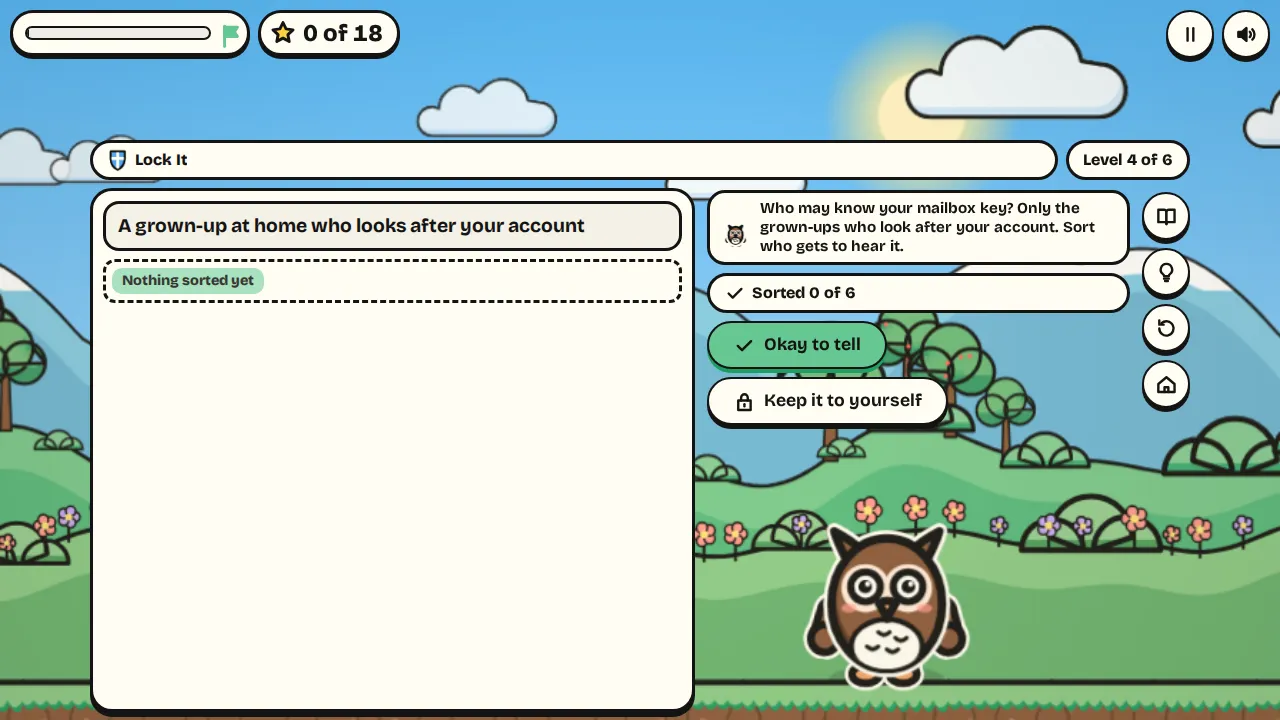
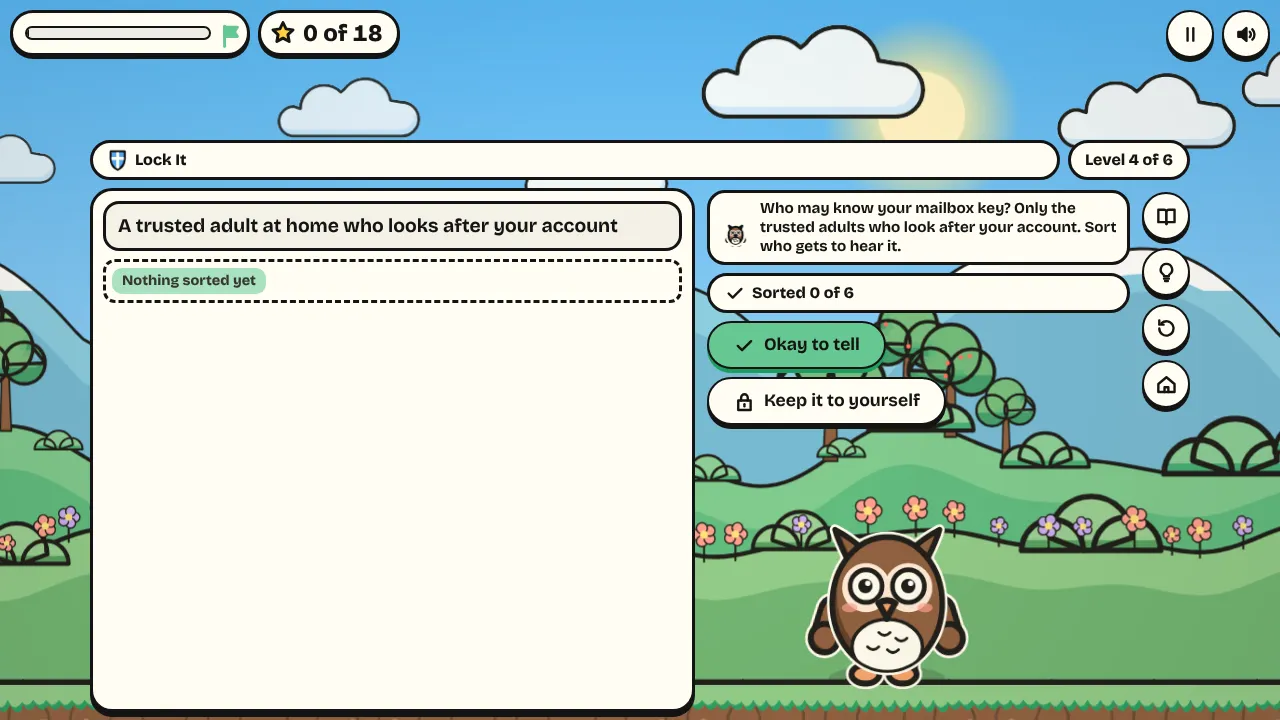
Escape's Post Office label is whole; Lock It's trusted-adult card recaptured; 4.2 question
- Escape the Post Office: place names ride above the road buttons (nodes take
  no pointer events, so taps still reach the buttons); 'Post Offic' is now
  'Post Office' in the game and in the Sorting Gate pictures.
- Lock It's 'Okay to tell' picture (2.1, CS Quest 4.2) recaptured: it now
  reads 'A trusted adult at home...' as the game does, not 'grown-up'.
- Explorer 4.2's hard-to-parse question reads 'You do not reply to a trick
  message. Which two tricksters does that stop, and why?'

Claude-Session: https://claude.ai/code/session_01KYpNxumPhmWGwbVSmRUEXt

diff --git a/public/js/course-zoom-data.js b/public/js/course-zoom-data.js
@@ -1,3 +1,3 @@
 // Generated by scripts/cyber-zoom-data.mjs from scripts/cyber-shots-rects.json: do not edit.
 // { picture key: the game's body text size, px of the 1280-wide capture }; word boxes: /img/zoom/<key>.json
-export default {"csq/escape-the-post-office/door-1b-five":46.5,"csq/escape-the-post-office/door-1b-new":43.6,"csq/escape-the-post-office/door-1b-new-n2":47.6,"csq/escape-the-post-office/door-1b-two":48.8,"csq/escape-the-post-office/door-2-five":46.5,"csq/escape-the-post-office/door-2-new":45.5,"csq/escape-the-post-office/door-2-new-n2":47.6,"csq/escape-the-post-office/door-2-two":48.8,"csq/escape-the-post-office/gate-1b":48.8,"csq/escape-the-post-office/gate-2":48.8,"csq/escape-the-post-office/inbox-1b":48.8,"csq/escape-the-post-office/inbox-1b-2":48.8,"csq/escape-the-post-office/inbox-1b-wrong":45.5,"csq/escape-the-post-office/inbox-2":48.8,"csq/escape-the-post-office/inbox-2-5":47.6,"csq/escape-the-post-office/layers-1b":43.6,"csq/escape-the-post-office/layers-1b-2":48.8,"csq/escape-the-post-office/layers-1b-3":43.6,"csq/escape-the-post-office/layers-1b-4":48.8,"csq/escape-the-post-office/layers-2":47.6,"csq/escape-the-post-office/layers-2-2":48.8,"csq/escape-the-post-office/layers-2-2-n2":43.6,"csq/escape-the-post-office/layers-2-3":43.6,"csq/escape-the-post-office/layers-2-5":46.5,"csq/escape-the-post-office/layers-2-6":48.8,"csq/escape-the-post-office/moves-1b":47.6,"csq/escape-the-post-office/moves-1b-four":46.5,"csq/escape-the-post-office/moves-1b-two":46.5,"csq/escape-the-post-office/moves-2":47.6,"csq/escape-the-post-office/moves-2-done":48.8,"csq/escape-the-post-office/moves-2-five":48.8,"csq/escape-the-post-office/moves-2-one":48.8,"csq/escape-the-post-office/moves-2-one-n2":45.5,"csq/escape-the-post-office/moves-2-three":48.8,"csq/escape-the-post-office/note-1b":48.8,"csq/escape-the-post-office/note-1b-n2":43.6,"csq/escape-the-post-office/note-1b-open":48.8,"csq/escape-the-post-office/note-2":48.8,"csq/escape-the-post-office/pim-1b":48.8,"csq/escape-the-post-office/pim-1b-pick":48.8,"csq/escape-the-post-office/pim-2":43.6,"csq/escape-the-post-office/pim-2-pick":43.6,"csq/packet-post/ciphers-1b-send":16,"csq/packet-post/ciphers-1b-unknown":16,"csq/packet-post/ciphers-2-crack":16,"csq/packet-post/ciphers-2-lockbox":48.8,"csq/packet-post/home":18.7,"csq/packet-post/locks-1b-backup-n1":58.9,"csq/packet-post/locks-1b-habits":16,"csq/packet-post/locks-1b-protect":16,"csq/packet-post/locks-1b-sort-n1":43.9,"csq/packet-post/locks-2-backup":16,"csq/packet-post/locks-2-router":16,"csq/packet-post/packets-1b-center":16,"csq/packet-post/packets-1b-learn-n1":51.2,"csq/packet-post/protocols-1b-key":16,"csq/packet-post/protocols-1b-sealed":16,"csq/packet-post/protocols-2-design":48.8,"csq/packet-post/routes-1b-journey":16,"csq/packet-post/routes-2-sealed":16,"csq/packet-post/tricks-1b-card":16,"csq/packet-post/tricks-1b-card-n1":48.8,"csq/packet-post/tricks-1b-clues":16,"csq/packet-post/tricks-1b-clues-n1":48.8,"csq/packet-post/tricks-1b-coins-n1":48.8,"csq/packet-post/tricks-1b-key":16,"csq/packet-post/tricks-1b-key-n1":48.8,"csq/packet-post/tricks-1b-key-n2":48.8,"csq/packet-post/tricks-1b-stranger-n1":48.8,"csq/packet-post/tricks-2-bank":16,"csq/packet-post/tricks-2-parcel":48.8,"csq/trick-inbox/ask-first-1b-af-1-all":49.7,"csq/trick-inbox/ask-first-1b-af-2-new":49.7,"csq/trick-inbox/ask-first-1b-af-3-all":49.7,"csq/trick-inbox/ask-first-1b-af-4-all":49.7,"csq/trick-inbox/ask-first-1b-af-6-all":49.7,"csq/trick-inbox/boss-1b-c1":45.4,"csq/trick-inbox/chat-1b-ch-1-all":49.7,"csq/trick-inbox/chat-1b-ch-1-debrief":47.6,"csq/trick-inbox/chat-1b-ch-2-debrief":46.5,"csq/trick-inbox/chat-1b-ch-2-new":49.7,"csq/trick-inbox/chat-1b-ch-3-all":49.7,"csq/trick-inbox/chat-1b-ch-3-debrief":48.8,"csq/trick-inbox/chat-1b-ch-4-all":49.7,"csq/trick-inbox/chat-1b-ch-4-decide":53.6,"csq/trick-inbox/chat-1b-ch-6-all":49.7,"csq/trick-inbox/chat-2-ch-1-debrief":47.6,"csq/trick-inbox/chat-2-ch-3-all":49.7,"csq/trick-inbox/chat-2-ch-3-debrief":48.8,"csq/trick-inbox/chat-2-ch-4-all":49.7,"csq/trick-inbox/chat-2-ch-4-decide":53.6,"csq/trick-inbox/chat-2-ch-6-all":49.7,"csq/trick-inbox/chat-2-ch-7-all":49.7,"csq/trick-inbox/chat-2-ch-7-debrief":48.8,"csq/trick-inbox/keys-1b-kk-1-all":49.7,"csq/trick-inbox/keys-1b-kk-4-all":49.7,"csq/trick-inbox/letters-1b-lt-1-all":49.7,"csq/trick-inbox/letters-1b-lt-3-all":49.7,"csq/trick-inbox/letters-1b-lt-5-all":49.7,"csq/trick-inbox/letters-1b-lt-5-debrief":48.8,"csq/trick-inbox/letters-2-lt-7-all":49.7,"csq/trick-inbox/media-2-md-1-all":49.7,"csq/trick-inbox/media-2-md-1-debrief":46.5,"csq/trick-inbox/media-2-md-2-all":49.7,"csq/trick-inbox/media-2-md-3-all":49.7,"csq/trick-inbox/media-2-md-3-debrief":47.6,"csq/trick-inbox/media-2-md-4-new":49.7,"csq/trick-inbox/media-2-md-5-all":49.7,"csq/trick-inbox/mix-1b-mx-1-all":49.7,"csq/trick-inbox/mix-1b-mx-1-debrief":48.8,"csq/trick-inbox/mix-1b-mx-3-debrief":48.8,"csq/trick-inbox/mix-1b-mx-4-all":49.7,"csq/trick-inbox/mix-1b-mx-4-debrief":48.8,"csq/trick-inbox/mix-1b-mx-6-all":49.7,"csq/trick-inbox/mix-1b-mx-6-debrief":48.8,"csq/trick-inbox/mix-2-mx-3-debrief":48.8,"csq/trick-inbox/mix-2-mx-4-debrief":48.8,"csq/trick-inbox/mix-2-mx-6-debrief":48.8,"csq/trick-inbox/pressure-2-pr-1-all":49.7,"csq/trick-inbox/pressure-2-pr-1-debrief":48.8,"csq/trick-inbox/pressure-2-pr-2-all":49.7,"csq/trick-inbox/pressure-2-pr-3-all":49.7,"csq/trick-inbox/pressure-2-pr-3-debrief":48.8,"csq/trick-inbox/pressure-2-pr-4-all":49.7,"csq/trick-inbox/pressure-2-pr-6-all":49.7,"csq/trick-inbox/private-1b-pf-1-all":49.7,"csq/trick-inbox/private-1b-pf-3-all":49.7,"csq/trick-inbox/private-1b-pf-6-all":49.7,"csq/trick-inbox/rules-1b-rb-1-all":49.7,"csq/trick-inbox/rules-1b-rb-3-all":49.7,"csq/trick-inbox/rules-1b-rb-5-debrief":48.8,"csq/trick-inbox/senders-2-sd-1-all":49.7,"csq/trick-inbox/senders-2-sd-1-all-n2":49.7,"csq/trick-inbox/senders-2-sd-1-debrief-n1":47.6,"csq/trick-inbox/senders-2-sd-1-new":49.7,"csq/trick-inbox/senders-2-sd-3-all":49.7,"csq/would-you-rather/online-cloud-2":49.2,"csq/would-you-rather/online-comments-2":49.2,"csq/would-you-rather/online-credit-1b":30.2,"csq/would-you-rather/online-credit-1b-n1":49.2,"csq/would-you-rather/online-delete-1b":49.2,"csq/would-you-rather/online-delete-2":49.2,"csq/would-you-rather/online-download-1b":49.2,"csq/would-you-rather/online-drawing-1b":49.2,"csq/would-you-rather/online-location-1b":49.2,"csq/would-you-rather/online-name-1b":49.2,"csq/would-you-rather/online-name-2":49.2,"csq/would-you-rather/online-photo-1b":49.2,"csq/would-you-rather/online-photo-2":49.2};
+export default {"csq/escape-the-post-office/door-1b-five":46.5,"csq/escape-the-post-office/door-1b-new":43.6,"csq/escape-the-post-office/door-1b-new-n2":47.6,"csq/escape-the-post-office/door-1b-two":48.8,"csq/escape-the-post-office/door-2-five":46.5,"csq/escape-the-post-office/door-2-new":45.5,"csq/escape-the-post-office/door-2-new-n2":47.6,"csq/escape-the-post-office/door-2-two":48.8,"csq/escape-the-post-office/gate-1b":41.4,"csq/escape-the-post-office/gate-2":41.4,"csq/escape-the-post-office/inbox-1b":48.8,"csq/escape-the-post-office/inbox-1b-2":48.8,"csq/escape-the-post-office/inbox-1b-wrong":45.5,"csq/escape-the-post-office/inbox-2":48.8,"csq/escape-the-post-office/inbox-2-5":47.6,"csq/escape-the-post-office/layers-1b":43.6,"csq/escape-the-post-office/layers-1b-2":48.8,"csq/escape-the-post-office/layers-1b-3":43.6,"csq/escape-the-post-office/layers-1b-4":48.8,"csq/escape-the-post-office/layers-2":47.6,"csq/escape-the-post-office/layers-2-2":48.8,"csq/escape-the-post-office/layers-2-2-n2":43.6,"csq/escape-the-post-office/layers-2-3":43.6,"csq/escape-the-post-office/layers-2-5":46.5,"csq/escape-the-post-office/layers-2-6":48.8,"csq/escape-the-post-office/moves-1b":47.6,"csq/escape-the-post-office/moves-1b-four":46.5,"csq/escape-the-post-office/moves-1b-two":46.5,"csq/escape-the-post-office/moves-2":47.6,"csq/escape-the-post-office/moves-2-done":48.8,"csq/escape-the-post-office/moves-2-five":48.8,"csq/escape-the-post-office/moves-2-one":48.8,"csq/escape-the-post-office/moves-2-one-n2":45.5,"csq/escape-the-post-office/moves-2-three":48.8,"csq/escape-the-post-office/note-1b":48.8,"csq/escape-the-post-office/note-1b-n2":43.6,"csq/escape-the-post-office/note-1b-open":48.8,"csq/escape-the-post-office/note-2":48.8,"csq/escape-the-post-office/pim-1b":48.8,"csq/escape-the-post-office/pim-1b-pick":48.8,"csq/escape-the-post-office/pim-2":43.6,"csq/escape-the-post-office/pim-2-pick":43.6,"csq/packet-post/ciphers-1b-send":16,"csq/packet-post/ciphers-1b-unknown":16,"csq/packet-post/ciphers-2-crack":16,"csq/packet-post/ciphers-2-lockbox":48.8,"csq/packet-post/home":18.7,"csq/packet-post/locks-1b-backup-n1":58.9,"csq/packet-post/locks-1b-habits":16,"csq/packet-post/locks-1b-protect":16,"csq/packet-post/locks-1b-sort-n1":43.9,"csq/packet-post/locks-2-backup":16,"csq/packet-post/locks-2-router":16,"csq/packet-post/packets-1b-center":16,"csq/packet-post/packets-1b-learn-n1":51.2,"csq/packet-post/protocols-1b-key":16,"csq/packet-post/protocols-1b-sealed":16,"csq/packet-post/protocols-2-design":48.8,"csq/packet-post/routes-1b-journey":16,"csq/packet-post/routes-2-sealed":16,"csq/packet-post/tricks-1b-card":16,"csq/packet-post/tricks-1b-card-n1":48.8,"csq/packet-post/tricks-1b-clues":16,"csq/packet-post/tricks-1b-clues-n1":48.8,"csq/packet-post/tricks-1b-coins-n1":48.8,"csq/packet-post/tricks-1b-key":16,"csq/packet-post/tricks-1b-key-n1":48.8,"csq/packet-post/tricks-1b-key-n2":48.8,"csq/packet-post/tricks-1b-stranger-n1":48.8,"csq/packet-post/tricks-2-bank":16,"csq/packet-post/tricks-2-parcel":48.8,"csq/trick-inbox/ask-first-1b-af-1-all":49.7,"csq/trick-inbox/ask-first-1b-af-2-new":49.7,"csq/trick-inbox/ask-first-1b-af-3-all":49.7,"csq/trick-inbox/ask-first-1b-af-4-all":49.7,"csq/trick-inbox/ask-first-1b-af-6-all":49.7,"csq/trick-inbox/boss-1b-c1":45.4,"csq/trick-inbox/chat-1b-ch-1-all":49.7,"csq/trick-inbox/chat-1b-ch-1-debrief":47.6,"csq/trick-inbox/chat-1b-ch-2-debrief":46.5,"csq/trick-inbox/chat-1b-ch-2-new":49.7,"csq/trick-inbox/chat-1b-ch-3-all":49.7,"csq/trick-inbox/chat-1b-ch-3-debrief":48.8,"csq/trick-inbox/chat-1b-ch-4-all":49.7,"csq/trick-inbox/chat-1b-ch-4-decide":53.6,"csq/trick-inbox/chat-1b-ch-6-all":49.7,"csq/trick-inbox/chat-2-ch-1-debrief":47.6,"csq/trick-inbox/chat-2-ch-3-all":49.7,"csq/trick-inbox/chat-2-ch-3-debrief":48.8,"csq/trick-inbox/chat-2-ch-4-all":49.7,"csq/trick-inbox/chat-2-ch-4-decide":53.6,"csq/trick-inbox/chat-2-ch-6-all":49.7,"csq/trick-inbox/chat-2-ch-7-all":49.7,"csq/trick-inbox/chat-2-ch-7-debrief":48.8,"csq/trick-inbox/keys-1b-kk-1-all":49.7,"csq/trick-inbox/keys-1b-kk-4-all":49.7,"csq/trick-inbox/letters-1b-lt-1-all":49.7,"csq/trick-inbox/letters-1b-lt-3-all":49.7,"csq/trick-inbox/letters-1b-lt-5-all":49.7,"csq/trick-inbox/letters-1b-lt-5-debrief":48.8,"csq/trick-inbox/letters-2-lt-7-all":49.7,"csq/trick-inbox/media-2-md-1-all":49.7,"csq/trick-inbox/media-2-md-1-debrief":46.5,"csq/trick-inbox/media-2-md-2-all":49.7,"csq/trick-inbox/media-2-md-3-all":49.7,"csq/trick-inbox/media-2-md-3-debrief":47.6,"csq/trick-inbox/media-2-md-4-new":49.7,"csq/trick-inbox/media-2-md-5-all":49.7,"csq/trick-inbox/mix-1b-mx-1-all":49.7,"csq/trick-inbox/mix-1b-mx-1-debrief":48.8,"csq/trick-inbox/mix-1b-mx-3-debrief":48.8,"csq/trick-inbox/mix-1b-mx-4-all":49.7,"csq/trick-inbox/mix-1b-mx-4-debrief":48.8,"csq/trick-inbox/mix-1b-mx-6-all":49.7,"csq/trick-inbox/mix-1b-mx-6-debrief":48.8,"csq/trick-inbox/mix-2-mx-3-debrief":48.8,"csq/trick-inbox/mix-2-mx-4-debrief":48.8,"csq/trick-inbox/mix-2-mx-6-debrief":48.8,"csq/trick-inbox/pressure-2-pr-1-all":49.7,"csq/trick-inbox/pressure-2-pr-1-debrief":48.8,"csq/trick-inbox/pressure-2-pr-2-all":49.7,"csq/trick-inbox/pressure-2-pr-3-all":49.7,"csq/trick-inbox/pressure-2-pr-3-debrief":48.8,"csq/trick-inbox/pressure-2-pr-4-all":49.7,"csq/trick-inbox/pressure-2-pr-6-all":49.7,"csq/trick-inbox/private-1b-pf-1-all":49.7,"csq/trick-inbox/private-1b-pf-3-all":49.7,"csq/trick-inbox/private-1b-pf-6-all":49.7,"csq/trick-inbox/rules-1b-rb-1-all":49.7,"csq/trick-inbox/rules-1b-rb-3-all":49.7,"csq/trick-inbox/rules-1b-rb-5-debrief":48.8,"csq/trick-inbox/senders-2-sd-1-all":49.7,"csq/trick-inbox/senders-2-sd-1-all-n2":49.7,"csq/trick-inbox/senders-2-sd-1-debrief-n1":47.6,"csq/trick-inbox/senders-2-sd-1-new":49.7,"csq/trick-inbox/senders-2-sd-3-all":49.7,"csq/would-you-rather/online-cloud-2":49.2,"csq/would-you-rather/online-comments-2":49.2,"csq/would-you-rather/online-credit-1b":30.2,"csq/would-you-rather/online-credit-1b-n1":49.2,"csq/would-you-rather/online-delete-1b":49.2,"csq/would-you-rather/online-delete-2":49.2,"csq/would-you-rather/online-download-1b":49.2,"csq/would-you-rather/online-drawing-1b":49.2,"csq/would-you-rather/online-location-1b":49.2,"csq/would-you-rather/online-name-1b":49.2,"csq/would-you-rather/online-name-2":49.2,"csq/would-you-rather/online-photo-1b":49.2,"csq/would-you-rather/online-photo-2":49.2};

diff --git a/seed-games/escape-the-post-office.html b/seed-games/escape-the-post-office.html
@@ -45,6 +45,9 @@
   .ep-node .ep-ico { position: absolute; left: -23px; top: -23px; width: 46px; height: 46px; border-radius: 50%; background: var(--ok-card); border: 3px solid var(--ok-edge); display: grid; place-items: center; font-size: 22px; }
   .ep-node.ep-here .ep-ico { outline: 4px solid var(--ep-lit); outline-offset: 2px; }
   .ep-node small { position: absolute; top: 25px; left: 50%; transform: translateX(-50%); font-weight: 800; font-size: .72em; background: var(--ok-card); border-radius: 8px; padding: 1px 6px; white-space: nowrap; }
+  /* a place name rides above the road buttons (taps still reach them: nodes take no pointer events), so a road button next to
+     a long name never hides its last letters ("Post Offic") */
+  .ep-board .ep-node { z-index: 3; }
   .ep-link { position: absolute; width: 48px; height: 48px; margin: -24px 0 0 -24px; border-radius: 50%; border: 3px solid var(--ok-edge); background: var(--ok-card); color: var(--ok-text);
     display: grid; place-items: center; padding: 0; cursor: pointer; font: inherit; font-weight: 800; box-shadow: 0 3px 0 var(--ok-edge); z-index: 2; }
   .ep-link.ep-ok { background: var(--ep-go); color: var(--ep-ink); }

diff --git a/tests/unit/cyber-shots.test.js b/tests/unit/cyber-shots.test.js
@@ -104,7 +104,9 @@ test('every spec state is in the manifest with the same alt, its WebP exists, an
 const Z = await import('../../public/js/course-zoom.js');
 const ZOOM_DATA = (await import('../../public/js/course-zoom-data.js')).default;
 const FRAME_390 = 326;
-const SHORT = { WIDE: 4, CAPPED: 7 };
+// 2026-11-07: +1 each: the Sorting Gate captures now show the whole "Post Office" label (it was hidden under a road
+// button), a longer line that the gate steps' boxes touch, and the padlock-road mission of 1b 1.2.
+const SHORT = { WIDE: 5, CAPPED: 8 };
 test('zoom-to-cue at 390: no cut line, every touched line whole, 11 px wherever the layout allows', () => {
   let n = 0;
   const short = { WIDE: 0, CAPPED: 0 }, problems = [];
